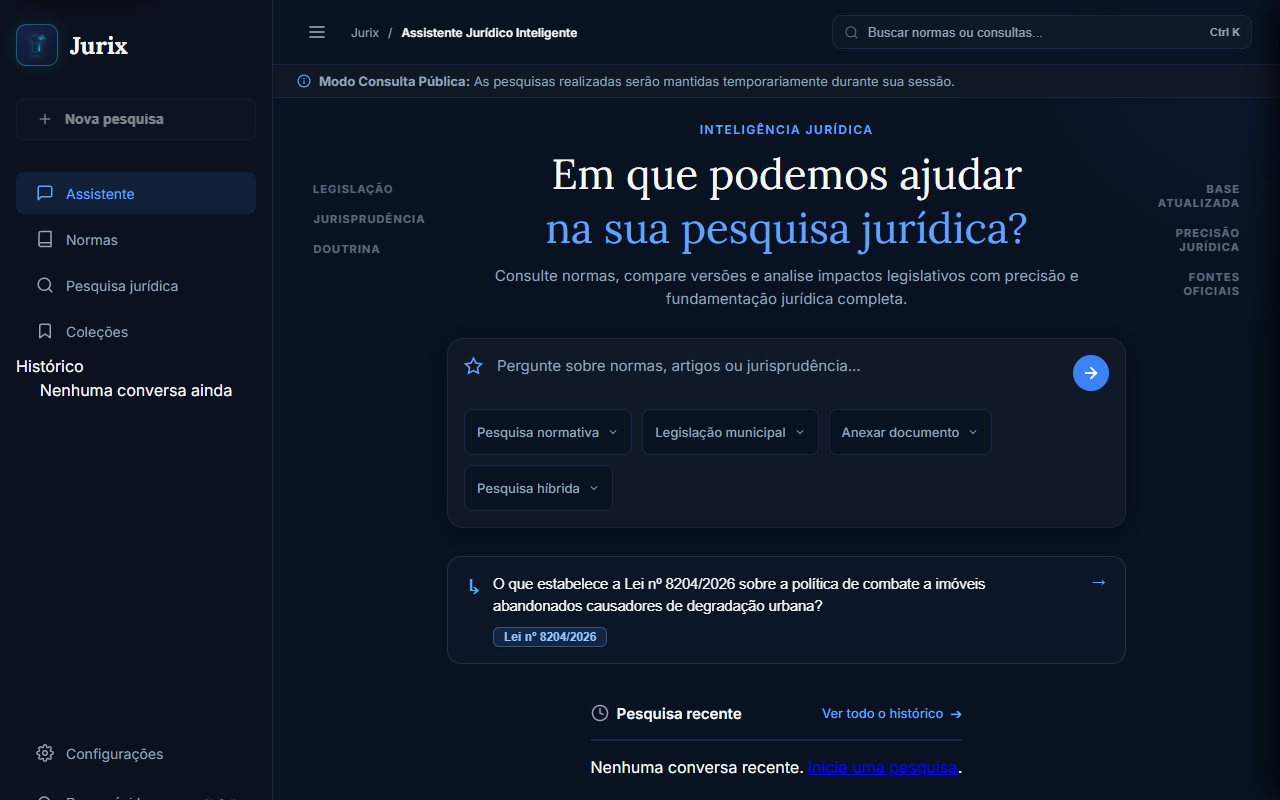
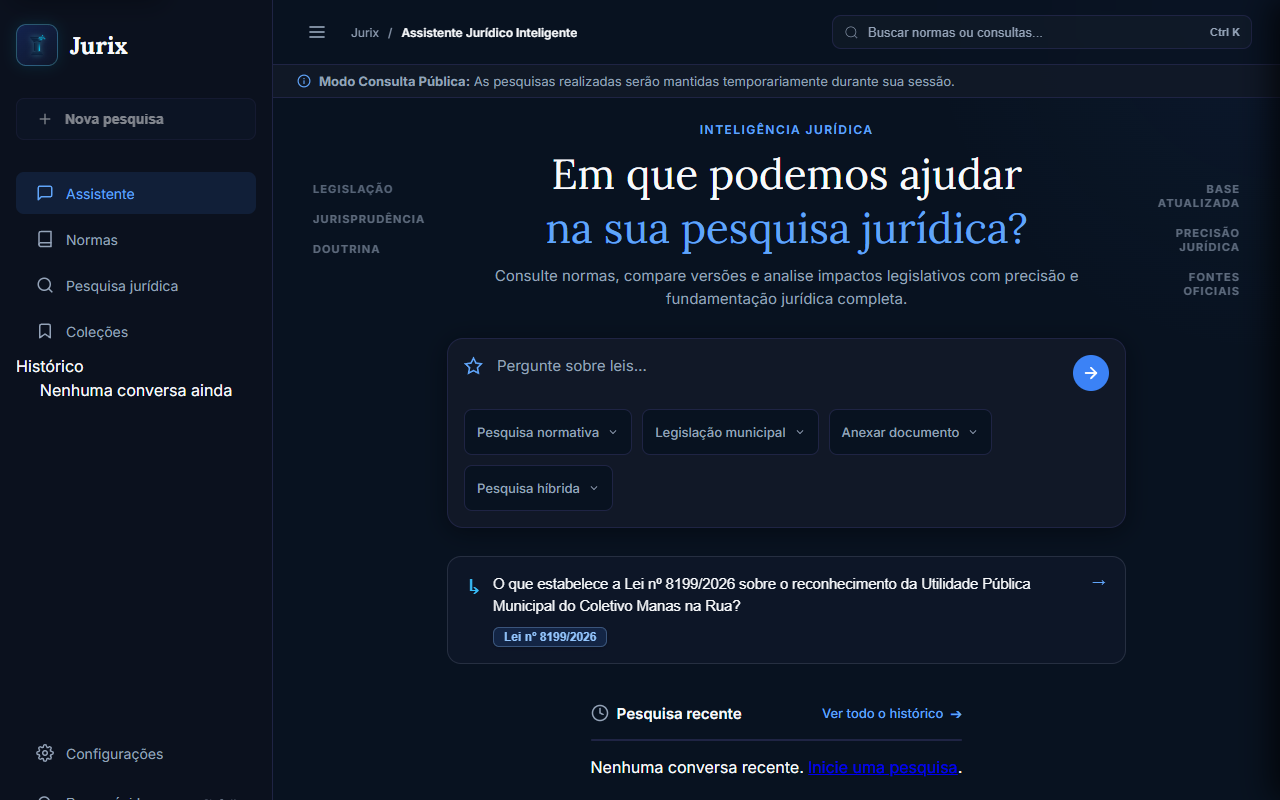
ui(chat): keep mobile prompt hint visible

Changed region(s): [[0.375, 0.7188, 0.8125, 0.7812], [0.4688, 0.4375, 0.6562, 0.4688]]

diff --git a/tests/js/fixtures/chatbot_anon.html b/tests/js/fixtures/chatbot_anon.html
@@ -194,7 +194,8 @@
                                                 type="text"
                                                 id="hero-search-input"
                                                 class="figma-hero-search-input"
-                                                placeholder="Pergunte sobre normas, artigos ou jurisprudência..."
+                                                placeholder="Pergunte sobre leis…"
+                                                aria-label="Pergunte sobre normas, artigos ou jurisprudência"
                                                 autocomplete="off"
                                             />
                                         </div>

diff --git a/tests/js/fixtures/chatbot_auth.html b/tests/js/fixtures/chatbot_auth.html
@@ -185,7 +185,8 @@
                                                 type="text"
                                                 id="hero-search-input"
                                                 class="figma-hero-search-input"
-                                                placeholder="Pergunte sobre normas, artigos ou jurisprudência..."
+                                                placeholder="Pergunte sobre leis…"
+                                                aria-label="Pergunte sobre normas, artigos ou jurisprudência"
                                                 autocomplete="off"
                                             />
                                         </div>

diff --git a/src/apps/legislation/templates/legislation/chatbot.html b/src/apps/legislation/templates/legislation/chatbot.html
@@ -189,7 +189,7 @@
                                                 type="text" 
                                                 id="hero-search-input" 
                                                 class="figma-hero-search-input" 
-                                                placeholder="Pergunte sobre normas, artigos ou jurisprudência..."
+                                                placeholder="Pergunte sobre leis…"
                                                 aria-label="Pergunte sobre normas, artigos ou jurisprudência"
                                                 autocomplete="off"
                                             />

diff --git a/FRONTEND_LOG.md b/FRONTEND_LOG.md
@@ -1107,3 +1107,48 @@ route/viewport coverage.
 Next action: Continue testing the assistant's mobile composer and keyboard
 submission, then inspect reading density and focus behavior in comparison,
 history, and collection flows.
+
+## Cycle 24 — 2026-09-29
+
+Area: Assistant welcome-composer prompt clarity on narrow screens.
+
+Goal: Prevent the hero-search placeholder from ending abruptly behind the
+send control on phones while preserving a fuller accessible description.
+
+Observed problems: The mobile hero input had 185px of width at 320px, while
+the placeholder “Pergunte sobre normas, artigos ou jurisprudência...” measured
+364px at its rendered font. The visible hint stopped at “ou” on 390px, hiding
+the rest of its instruction.
+
+Changes made: Shortened the visible placeholder to “Pergunte sobre leis…” in
+the assistant template and both browser fixtures. Retained the full
+`aria-label` (“Pergunte sobre normas, artigos ou jurisprudência”) so the
+shorter visual hint does not reduce the accessible name. Added a Chromium
+measurement asserting the placeholder fits the available input width.
+
+Browser validation: At 320px on the real local assistant, the new hint
+measures 150px against 181px of available text width; `aria-label` remains
+complete and there is no horizontal overflow. The 390px after screenshot
+shows the complete placeholder and send button with clear separation. Existing
+mobile test also verifies composer controls and 44px target dimensions.
+
+Tests: The focused real-Chromium assistant test and all 17 structural UI tests
+passed. `git diff --check` passed. Refreshed the 30-view after set; manifests
+report zero issues.
+
+Console: No browser errors on the real mobile assistant route or focused test.
+
+Responsive validation: Measured the real route at 320px and visually reviewed
+the 390px capture; placeholder fits at the minimum supported mobile viewport.
+
+Visual score: Mobile welcome composer 8.9/10 after this cycle (estimated
+7.8/10 before); the input prompt is now fully visible rather than clipped.
+
+Regressions: None in the focused browser test or UI structural suite.
+
+Screenshots: Updated all `after/` route captures; the 390px assistant image
+shows the full “Pergunte sobre leis…” hint.
+
+Next action: Continue the remaining mobile assistant composer interaction
+states, then exercise comparison, history, collections, settings, and reading
+flow focus/keyboard behavior.
